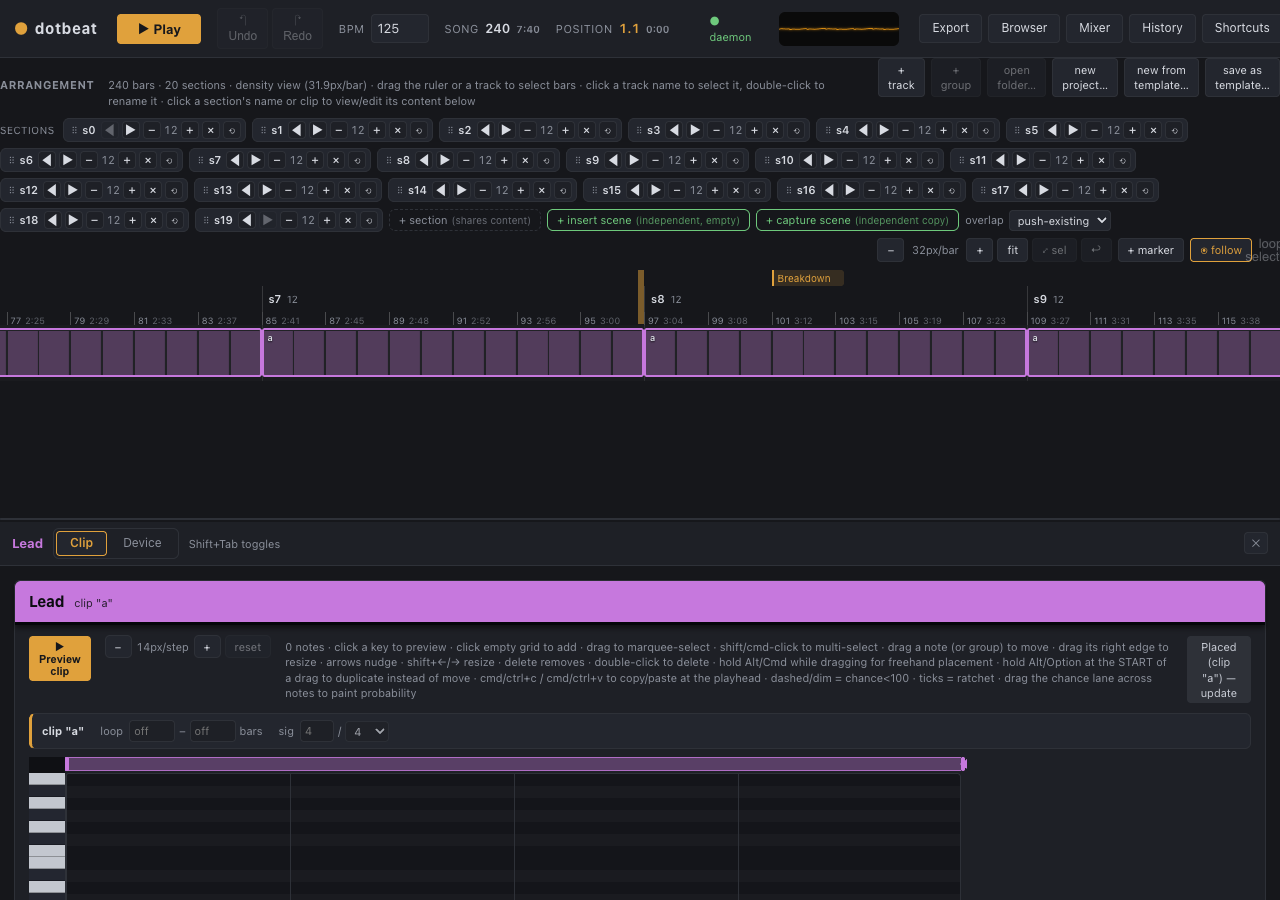
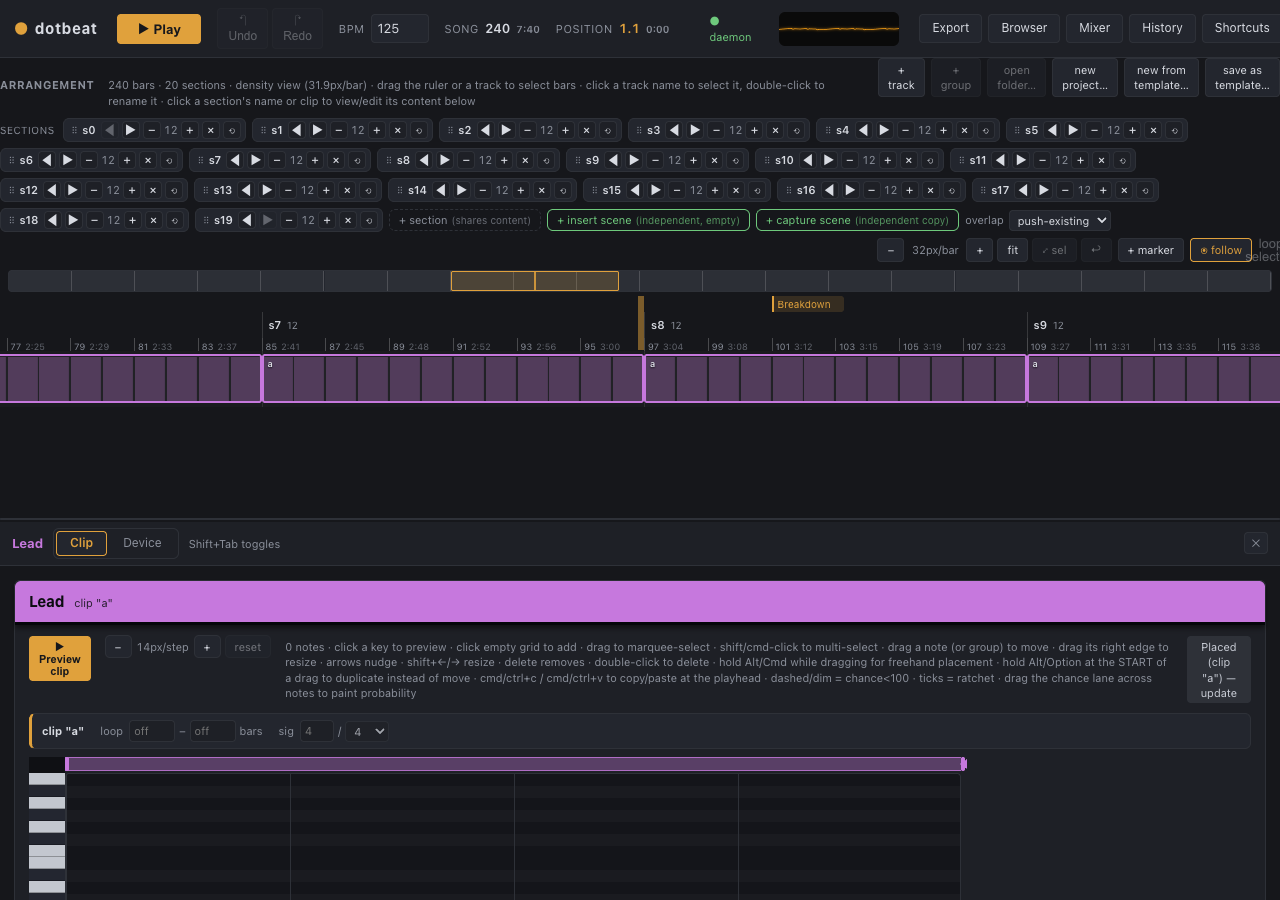
Arrangement: overview strip — the whole song, always visible
Once zoom is worth using — which follow and zoom-to-selection make it —
you spend most of your time looking at 8 bars of 242 with no indication
of where those 8 bars are. The strip is the "you are here" a zoomed view
structurally cannot give you: sections, markers, playhead, and the
current viewport as a window you can click or drag to move.

The viewport window is positioned imperatively from the scroll handler,
never through React state. Scroll has no natural rate limit and this
component owns thirty track canvases — the same reasoning the file
already applies to currentStep, taken one step further.

The window clamps to a 6px minimum width: at deep zoom the true window
is a sub-pixel sliver that reads as "nothing is displayed" rather than
"you are looking at a very small part of this".

Changed region(s): [[0.0, 0.28, 1.0, 0.4667]]

diff --git a/ui/src/components/ArrangementView.tsx b/ui/src/components/ArrangementView.tsx
@@ -2635,6 +2635,74 @@ export function ArrangementView() {
     return () => window.removeEventListener('keydown', onKey)
   }, [addLocator, jumpMarker, zoomToSelection, zoomBack, selectedOcc, moveOccurrences, splitAudioAtPlayhead, doc, setSelectedSection])
 
+  // ── Overview strip / minimap (Phase 41 Stream D) ─────────────────────────────────────────────
+  // The whole song, always, in one screen-width strip — sections, markers, the playhead, and a
+  // window showing which slice the main timeline is currently displaying. Once zoom is useful
+  // enough to be worth using (which follow and zoom-to-selection make it), you spend most of your
+  // time looking at 8 bars of 242 with no indication of where those 8 bars are; the strip is the
+  // "you are here" the zoomed view structurally cannot give you. Click or drag it to go somewhere.
+  //
+  // The viewport window is positioned IMPERATIVELY from the scroll handler, never through React
+  // state. Scroll fires far too often to re-render a component that owns 30 track canvases — the
+  // same reasoning the file already applies to `currentStep` ("only the lightweight playhead div
+  // re-renders on it"), just taken one step further because scroll has no natural 16th-note rate
+  // limit at all.
+  const miniRef = useRef<HTMLDivElement>(null)
+  const miniWindowRef = useRef<HTMLDivElement>(null)
+  const syncMiniWindow = useCallback(() => {
+    const scrollEl = scrollRef.current
+    const mini = miniRef.current
+    const win = miniWindowRef.current
+    if (!scrollEl || !mini || !win || totalBars <= 0 || renderPxPerBar <= 0) return
+    const miniW = mini.clientWidth
+    const pxPerBarMini = miniW / totalBars
+    const firstBar = scrollEl.scrollLeft / renderPxPerBar
+    const barsVisible = Math.max(0, scrollEl.clientWidth - HEADER_W) / renderPxPerBar
+    win.style.left = `${Math.max(0, firstBar * pxPerBarMini)}px`
+    // Clamp to a grabbable minimum: at deep zoom the true window is a sub-pixel sliver that reads
+    // as "nothing is displayed" rather than "you are looking at a very small part of this".
+    win.style.width = `${Math.max(6, Math.min(miniW, barsVisible * pxPerBarMini))}px`
+  }, [totalBars, renderPxPerBar])
+
+  // Re-sync whenever the geometry changes under it (zoom, song length, container resize) as well as
+  // on scroll — a zoom step changes which slice is visible without any scroll event firing.
+  useLayoutEffect(syncMiniWindow, [syncMiniWindow, laneWidth, locators])
+
+  const miniSeek = useCallback(
+    (clientX: number) => {
+      const mini = miniRef.current
+      const scrollEl = scrollRef.current
+      if (!mini || !scrollEl || totalBars <= 0 || renderPxPerBar <= 0) return
+      const rect = mini.getBoundingClientRect()
+      const bar = ((clientX - rect.left) / Math.max(1, rect.width)) * totalBars
+      const laneW = Math.max(1, scrollEl.clientWidth - HEADER_W)
+      const maxScroll = Math.max(0, scrollEl.scrollWidth - scrollEl.clientWidth)
+      // Centre the clicked bar: you pointed at a place, so put it in the middle of the view rather
+      // than at its left edge where half the context you were aiming for is off-screen.
+      scrollEl.scrollLeft = Math.max(0, Math.min(maxScroll, bar * renderPxPerBar - laneW / 2))
+      syncMiniWindow()
+    },
+    [totalBars, renderPxPerBar, syncMiniWindow],
+  )
+
+  // Drag anywhere on the strip to scrub the view along it — same attach-on-pointerdown idiom the
+  // rest of this file's one-shot gestures use.
+  const beginMiniDrag = useCallback(
+    (e: React.PointerEvent) => {
+      if (e.button === 2) return
+      e.preventDefault()
+      miniSeek(e.clientX)
+      const onMove = (ev: PointerEvent) => miniSeek(ev.clientX)
+      const onUp = () => {
+        window.removeEventListener('pointermove', onMove)
+        window.removeEventListener('pointerup', onUp)
+      }
+      window.addEventListener('pointermove', onMove)
+      window.addEventListener('pointerup', onUp)
+    },
+    [miniSeek],
+  )
+
   // Window-level move/up for the resize handle: preview the new bar count while dragging, commit once
   // on release. Loop mode writes loop_bars (optimistic /edit); song mode resizes that section (/song).
   //
@@ -3509,7 +3577,41 @@ export function ArrangementView() {
         </div>
       </div>
 
-      <div className="arr-scroll" ref={scrollRef} onWheel={onWheelZoom}>
+      {/* Phase 41 Stream D: the overview strip. The whole song at a fixed screen width, whatever
+          the main timeline is zoomed to — sections, markers, playhead, and the current viewport as
+          a draggable window. Click or drag to move the main view. */}
+      <div
+        className="arr-minimap"
+        ref={miniRef}
+        data-minimap="1"
+        data-total-bars={totalBars}
+        title="overview — click or drag to move the timeline view"
+        onPointerDown={beginMiniDrag}
+        style={{ touchAction: 'none' }}
+      >
+        {sections.map((s, i) => (
+          <div
+            key={`mini-sec-${i}`}
+            className="arr-minimap-section"
+            data-minimap-section={i}
+            style={{ left: `${(s.startBar / Math.max(1, totalBars)) * 100}%`, width: `${(s.bars / Math.max(1, totalBars)) * 100}%` }}
+          />
+        ))}
+        {locators.map((l) => (
+          <div
+            key={`mini-loc-${l.id}`}
+            className="arr-minimap-locator"
+            data-minimap-locator={l.id}
+            style={{ left: `${((l.bar - 1) / Math.max(1, totalBars)) * 100}%` }}
+          />
+        ))}
+        {showPlayhead && (
+          <div className="arr-minimap-playhead" style={{ left: `${(currentStep / 16 / Math.max(1, totalBars)) * 100}%` }} />
+        )}
+        <div className="arr-minimap-window" ref={miniWindowRef} data-minimap-window="1" />
+      </div>
+
+      <div className="arr-scroll" ref={scrollRef} onWheel={onWheelZoom} onScroll={syncMiniWindow}>
         {/* Ruler: section labels + boundaries; dragging it selects a bar range across all tracks. */}
         <div className="arr-ruler-row" style={{ height: RULER_H }}>
           <div className="arr-ruler-corner" style={{ width: HEADER_W }} />

diff --git a/ui/src/styles.css b/ui/src/styles.css
@@ -4139,3 +4139,56 @@ body {
   border-color: var(--accent);
   color: var(--accent);
 }
+
+/* ── Overview strip / minimap (Phase 41 Stream D) ────────────────────────────────────────────────
+   The whole song at a fixed screen width, sitting between the arrangement toolbar and the scrolling
+   timeline. Deliberately short (22px): it is a locator map and a "you are here", not a second
+   timeline to read detail from. */
+.arr-minimap {
+  position: relative;
+  height: 22px;
+  flex: 0 0 auto;
+  margin: 0 8px 4px;
+  border: 1px solid var(--line);
+  border-radius: var(--radius-md);
+  background: var(--panel-2);
+  cursor: pointer;
+  overflow: hidden;
+}
+.arr-minimap-section {
+  position: absolute;
+  top: 0;
+  bottom: 0;
+  border-right: 1px solid rgba(255, 255, 255, 0.16);
+  background: rgba(255, 255, 255, 0.04);
+}
+.arr-minimap-locator {
+  position: absolute;
+  top: 0;
+  bottom: 0;
+  width: 2px;
+  margin-left: -1px;
+  background: var(--accent);
+  opacity: 0.85;
+}
+.arr-minimap-playhead {
+  position: absolute;
+  top: 0;
+  bottom: 0;
+  width: 2px;
+  margin-left: -1px;
+  background: var(--accent);
+  box-shadow: 0 0 5px rgba(224, 161, 60, 0.8);
+}
+/* The current viewport. Positioned imperatively from the scroll handler (see syncMiniWindow) —
+   never re-rendered through React, because scroll has no natural rate limit and this component
+   owns every track canvas. */
+.arr-minimap-window {
+  position: absolute;
+  top: 0;
+  bottom: 0;
+  background: rgba(224, 161, 60, 0.18);
+  border: 1px solid var(--accent);
+  border-radius: 2px;
+  pointer-events: none;
+}
